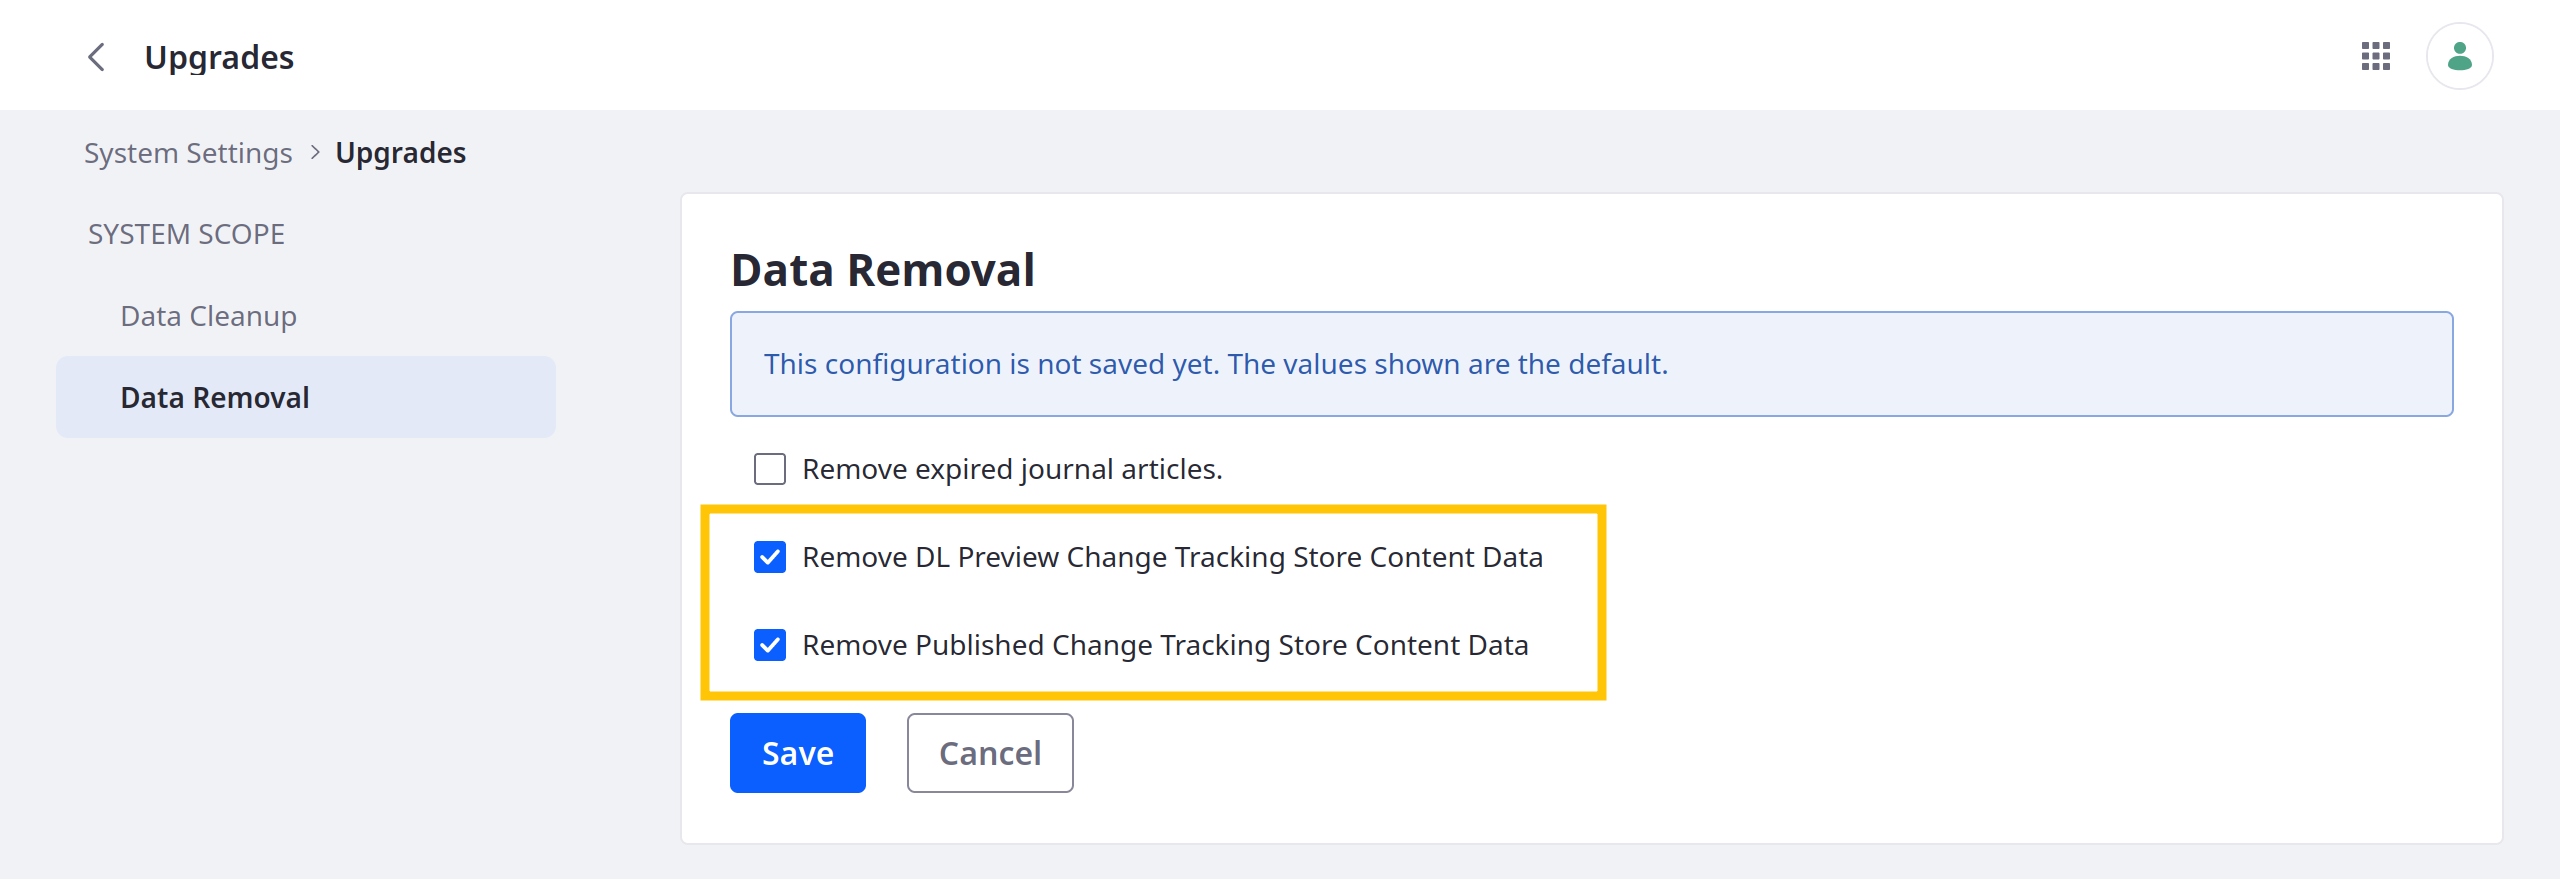
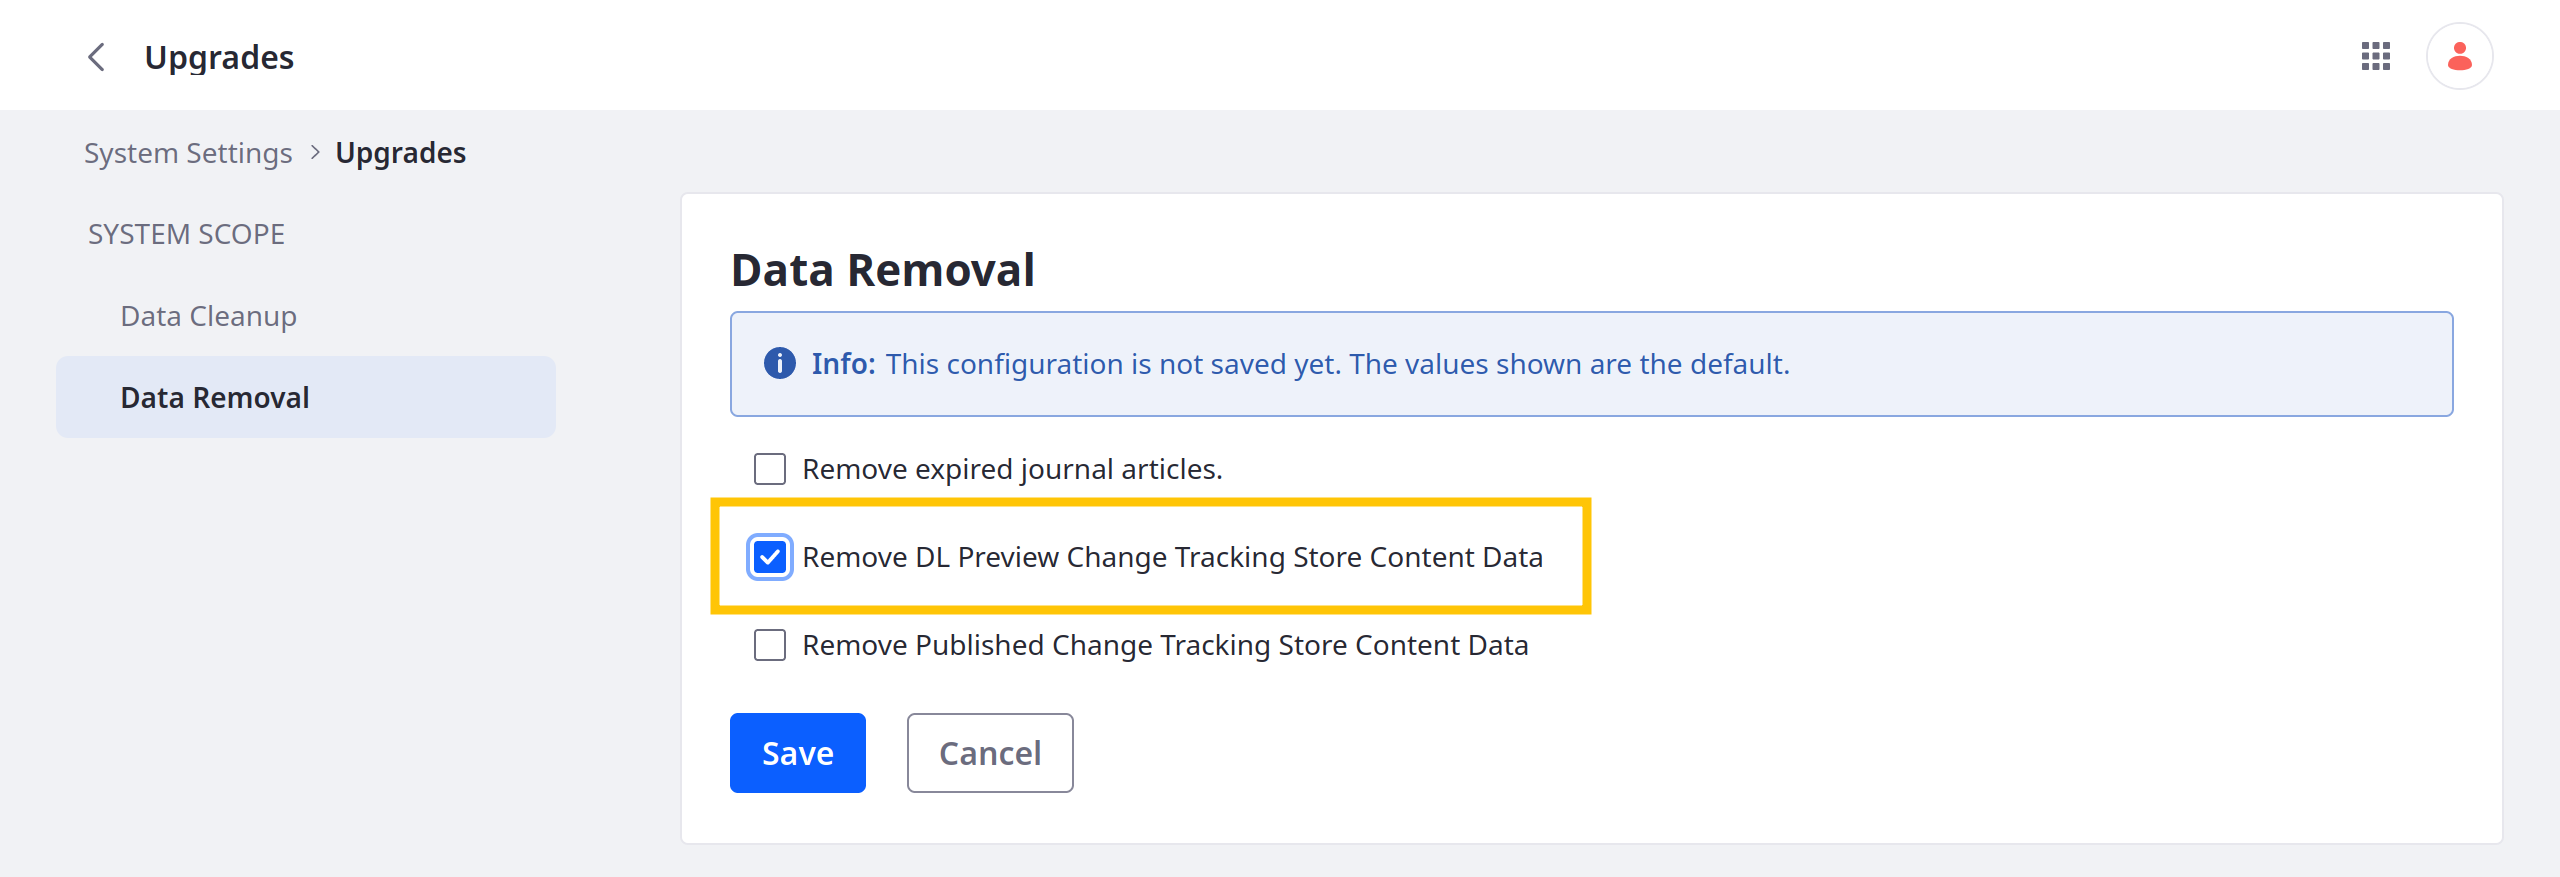
LRDOCS-11257 updates data removal advice per sme input

diff --git a/docs/dxp/latest/en/site-building/publishing-tools/publications/making-and-publishing-changes.md b/docs/dxp/latest/en/site-building/publishing-tools/publications/making-and-publishing-changes.md
@@ -151,7 +151,7 @@ This redirects you to the *Scheduled* tab where you can view and [manage schedul
 
 ## Removing Unnecessary Publication Data
 
-Publications creates copies of uploaded documents and stores them in a separate table to be published later. Due to the asynchronous way the data is handled, it occasionally appears in the publication's table (e.g., when generating previews for documents). By removing unnecessary data, you can reduce backup size and prevent publication clutter.
+When reviewing publication changes, Liferay may generate and store file and page previews in the document library. If desired, you can remove this data.
 
 To do this,
 
@@ -161,10 +161,7 @@ To do this,
 
 1. Go to the *Data Removal* tab.
 
-1. Select these options:
-
-   * Remove DL Preview Change Tracking Store Content Data
-   * Remove Published Change Tracking Store Content Data
+1. Select *Remove DL Preview Change Tracking Store Content Data*.
 
    ![Check the change tracking options.](making-and-publishing-changes/images/13.png)
 

diff --git a/docs/dxp/latest/en/installation-and-upgrades/upgrading-liferay/reference/data-removal.md b/docs/dxp/latest/en/installation-and-upgrades/upgrading-liferay/reference/data-removal.md
@@ -5,7 +5,7 @@ uuid: 9b0b0453-53f8-49ce-8169-c8a25cedf7bf
 
 {bdg-secondary}`Available 7.4+`
 
-Use the Data Removal tool to erase unnecessary application data that's accumulated over time. Data for publications and expired journal articles can be removed with the tool.
+Use the Data Removal tool to erase unnecessary application data that may accumulate over time, such as expired journal articles and publication previews.
 
 To remove data,
 
@@ -20,6 +20,10 @@ To remove data,
    * Document Library Preview Change Tracking Store Content Data (Publications)
 
    * Published Change Tracking Store Content Data (Publications)
+
+   ```{important}
+   You should only need to run Published Change Tracking Store Content Data if you're using a Liferay version before 7.3 U10 or 7.4 U37. It's recommended you upgrade your version after running this task to prevent the accumulation of this unnecessary data.
+   ```
 
 1. Click *Save*.
 
